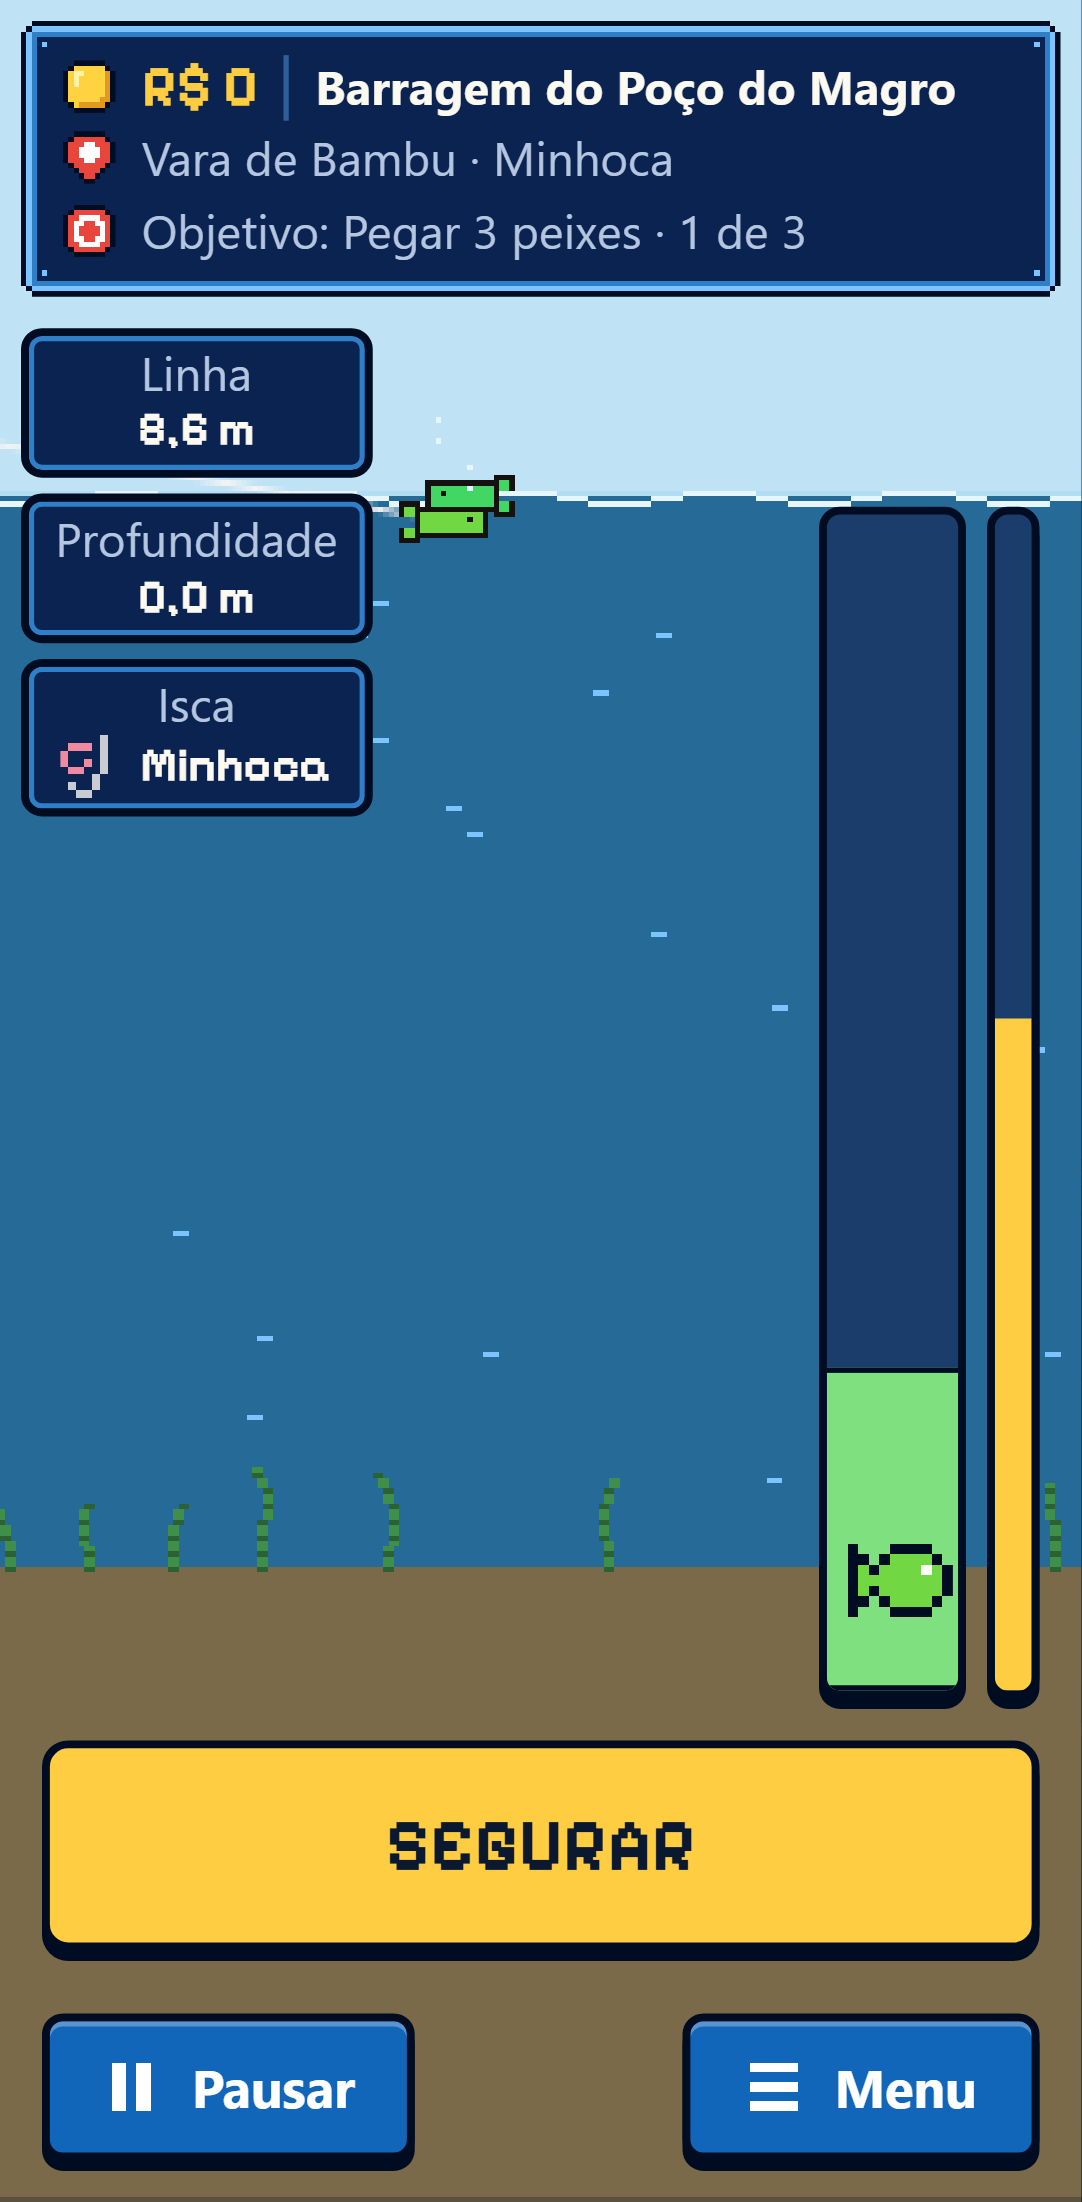
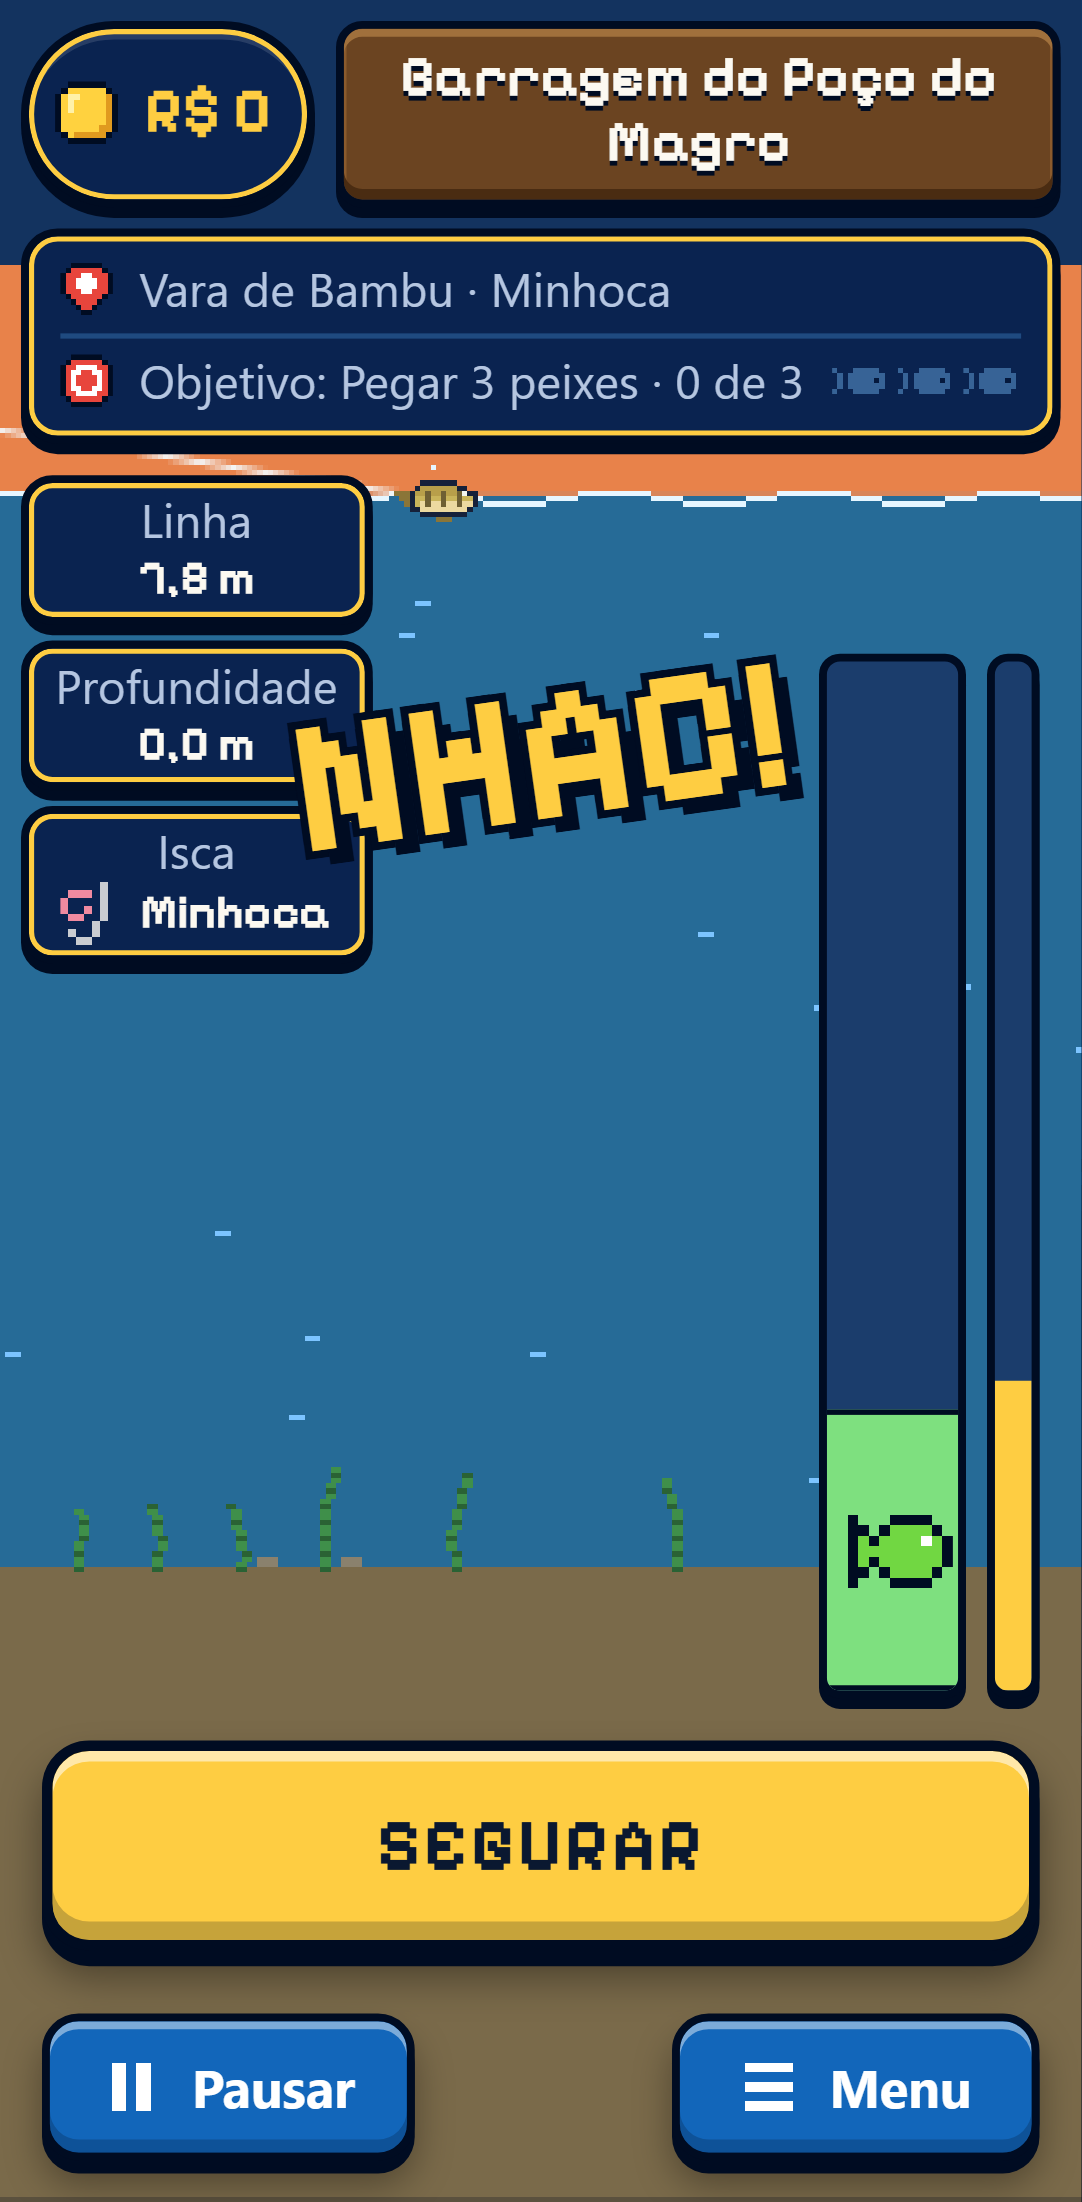
docs(arte): refaz as capturas com o visual novo
Pesqueiro em cartões, arremesso com a mira e o cardume em sombras, isca
na água e briga, além da tela de título nova, todas do Pixel 7. O teste
das capturas passa a gravar esses nomes, e saem as capturas antigas da
pescaria da v1 (pesca-depois-*).

diff --git a/e2e/fishingScene.spec.ts b/e2e/fishingScene.spec.ts
@@ -47,13 +47,19 @@ async function lureAt(page: Page, p: { x: number; y: number }) {
   }, shot.toString('base64'));
 }
 
-test('T79, ISCA-01: prints do Pixel 7 da mira, da isca na água e da briga, com a isca vermelha onde ela está', async ({ page }) => {
+test('T79, ISCA-01: prints do Pixel 7 do pesqueiro, da mira, da isca na água e da briga, com a isca vermelha onde ela está', async ({
+  page,
+}) => {
   await openWithProfile(page, veteran());
   await manualClock(page);
   await play(page);
-  await chooseSpot(page);
+  await page.locator('[data-spot="raso"]').click(); // o cartão tocado acende e o papel das espécies abre
   await nextFrames(page);
-  await page.screenshot({ path: shotPath('pesca-depois-mira.png'), animations: 'disabled' });
+  await page.screenshot({ path: shotPath('pesqueiro-implementado.png'), animations: 'disabled' });
+  await page.locator('[data-action="pescar-aqui"]').click();
+  await expect(page.locator('[data-button="arremessar"]')).toBeVisible();
+  await nextFrames(page);
+  await page.screenshot({ path: shotPath('arremesso-implementado.png'), animations: 'disabled' });
 
   expect(await castNow(page)).toBe('Lure'); // relógio parado: a isca fica na superfície, onde caiu
   await page.waitForTimeout(700); // o respingo na vista de cima acaba (ARREM-05)
@@ -61,12 +67,12 @@ test('T79, ISCA-01: prints do Pixel 7 da mira, da isca na água e da briga, com 
   expect((await gameState(page)).fishing.water.lure.depthM).toBe(0);
   expect(await lureAt(page, landedLure(page)), 'isca vermelha na água').toBeGreaterThan(0);
 
-  await page.screenshot({ path: shotPath('pesca-depois-isca.png'), animations: 'disabled' });
+  await page.screenshot({ path: shotPath('isca-implementada.png'), animations: 'disabled' });
 
   expect(await hookNow(page)).toBe('Fight');
   await nextFrames(page);
   await expect(page.getByRole('group', { name: 'Barra de captura' })).toBeVisible();
-  await page.screenshot({ path: shotPath('pesca-depois-briga.png'), animations: 'disabled' });
+  await page.screenshot({ path: shotPath('briga-implementada.png'), animations: 'disabled' });
 });
 
 test('T79, SAVE-01: a cena desenha a no máximo 30 quadros por segundo e, pausada, não desenha nem anima o fundo', async ({
